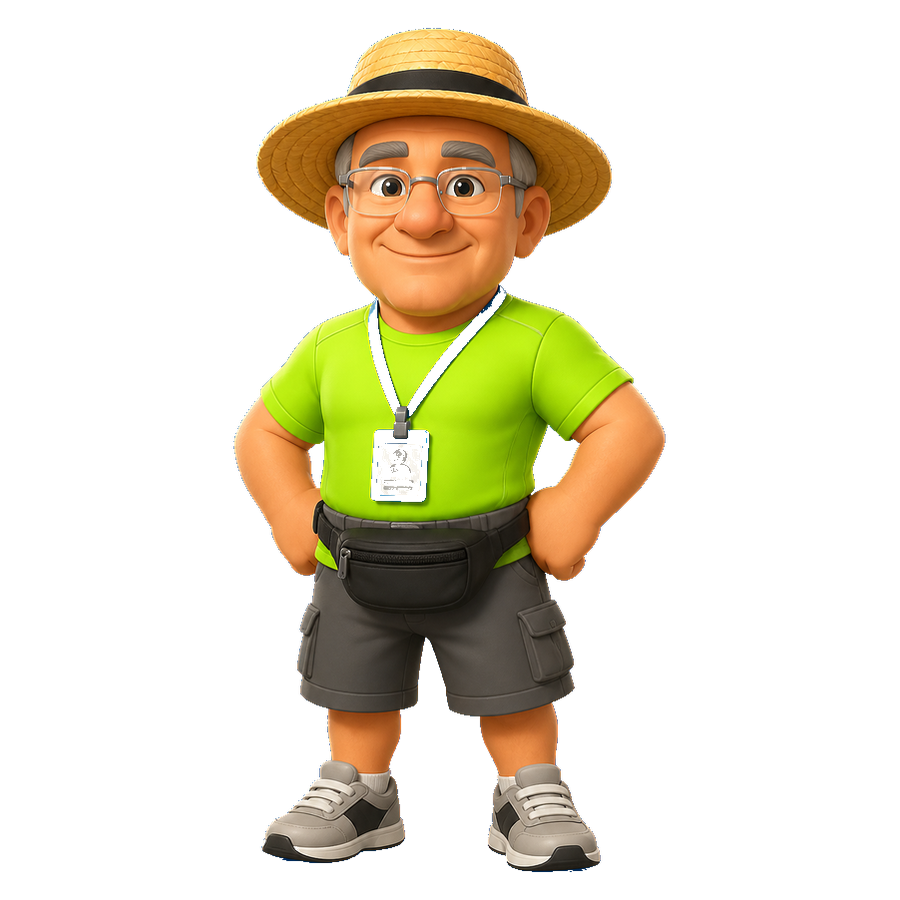
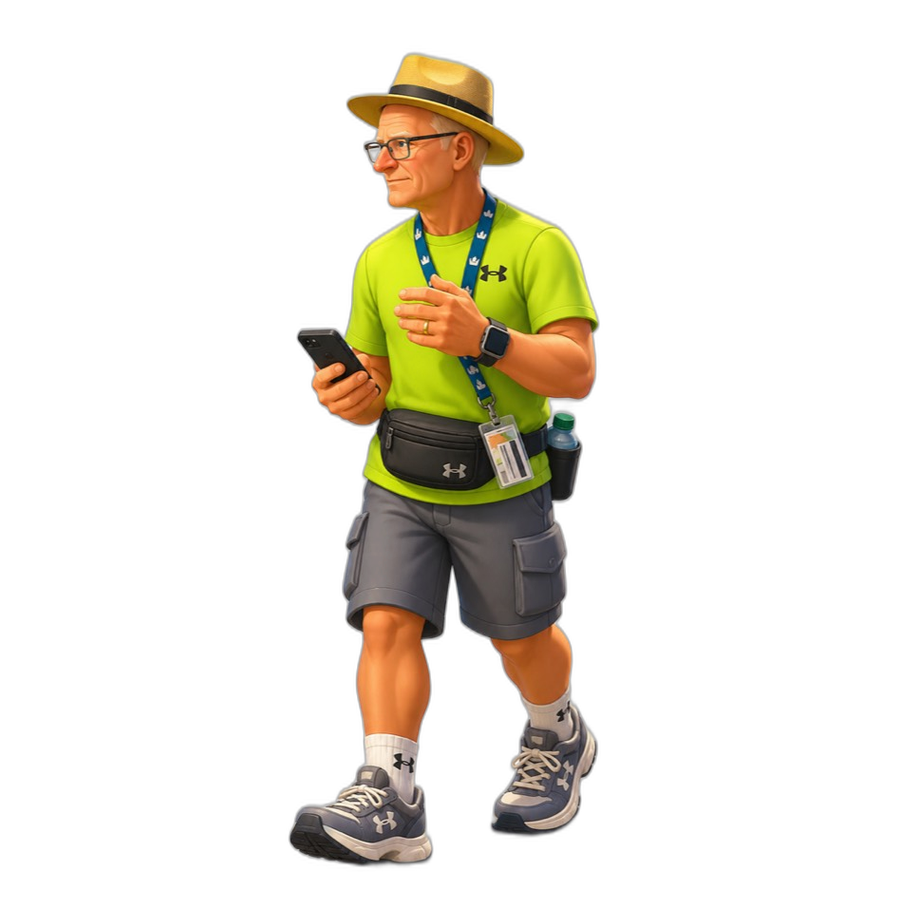
feat(philroyale): update Berry card and battlefield art
New straw-hat walking photo on shared blue card background; matching
troop front/back for the battlefield.

Changed region(s): [[0.2489, 0.0311, 0.7467, 0.9956]]

diff --git a/philroyale/src/characters/BerryModel.tsx b/philroyale/src/characters/BerryModel.tsx
@@ -14,7 +14,7 @@ type Props = {
   auraActive?: boolean
 }
 
-/** Berry — sombrero juice lobber; blue Aura flames after a kill. */
+/** Berry — straw hat juice lobber; blue Aura flames after a kill. */
 export function BerryModel({ anim, facing, attackId, portrait, auraActive }: Props) {
   return (
     <div className="relative h-full w-full">
@@ -26,13 +26,11 @@ export function BerryModel({ anim, facing, attackId, portrait, auraActive }: Pro
         anim={anim}
         facing={facing}
         portrait={portrait}
-        objectPos="50% 12%"
+        objectPos="50% 14%"
         portraitFilter="brightness(1) saturate(1.05)"
         gait="jog"
-        spriteLegs
+        spriteLegs={false}
         attack={anim === 'attack' && attackId === 'aura' ? 'berryJuice' : 'none'}
-        legColor="#3a3a42"
-        shoeColor="#1a1a20"
       />
       {auraActive && !portrait ? (
         <>
